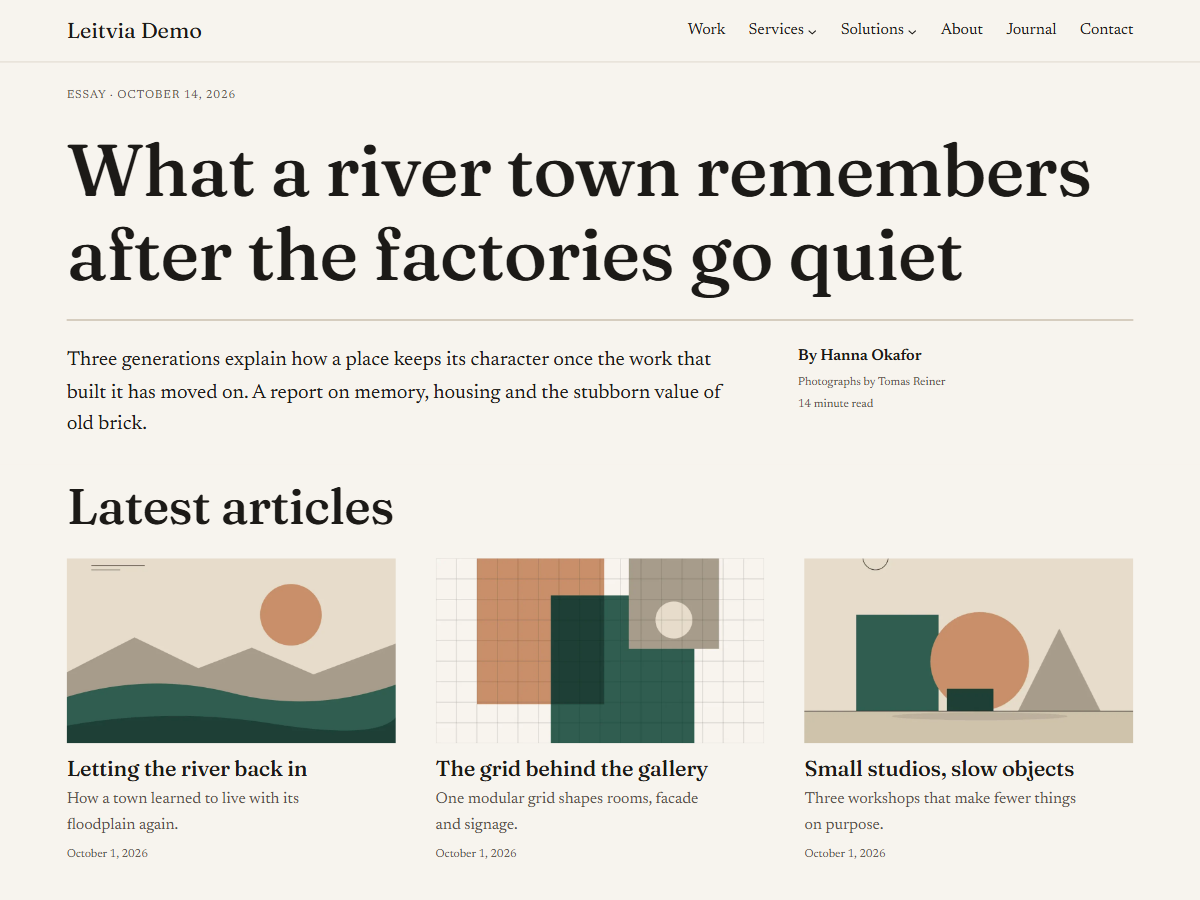
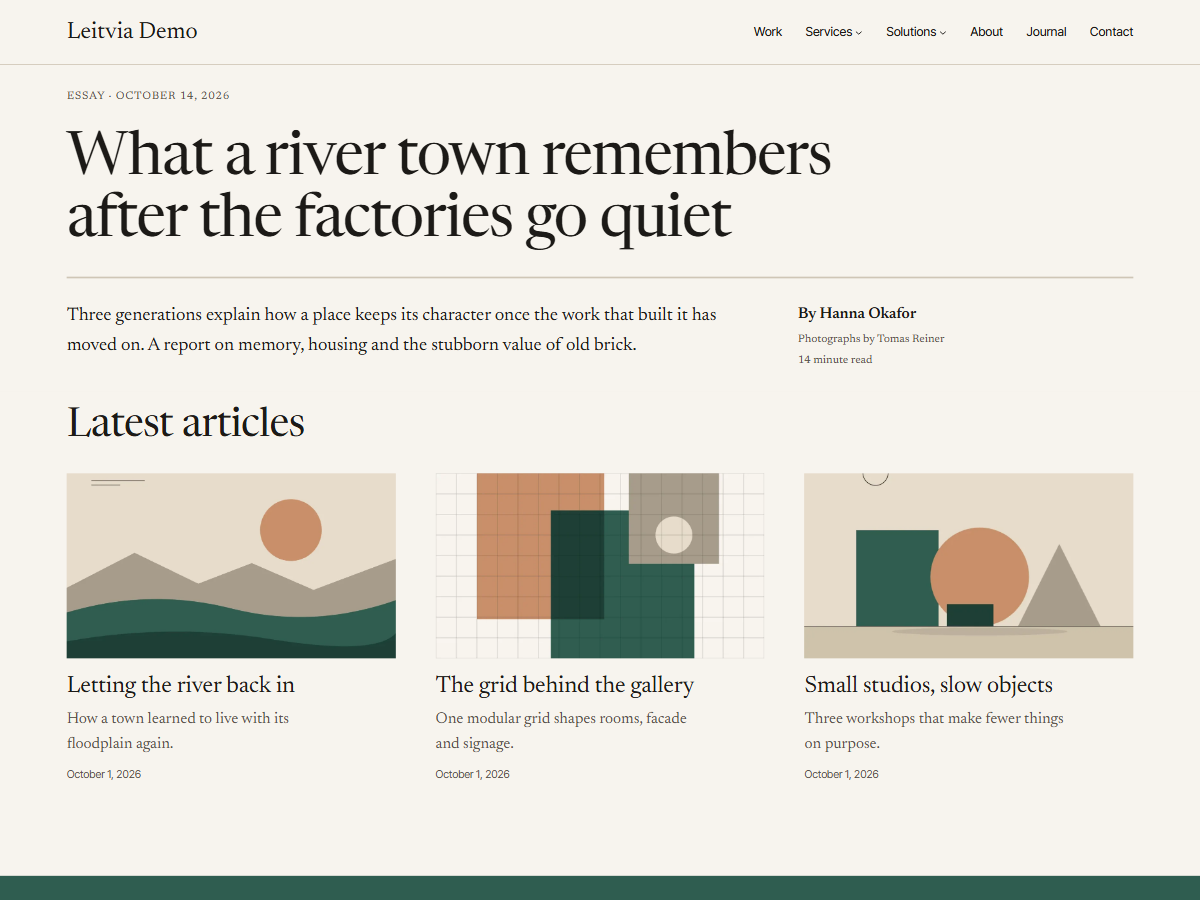
1.0.2 of leitvia from 2825847

diff --git a/style.css b/style.css
@@ -7,7 +7,7 @@ Description: Leitvia is an AI-first block theme built on semantic design tokens.
 Requires at least: 7.1
 Tested up to: 7.1
 Requires PHP: 8.2
-Version: 1.0.1
+Version: 1.0.2
 License: GNU General Public License v2 or later
 License URI: https://www.gnu.org/licenses/gpl-2.0.html
 Text Domain: leitvia
